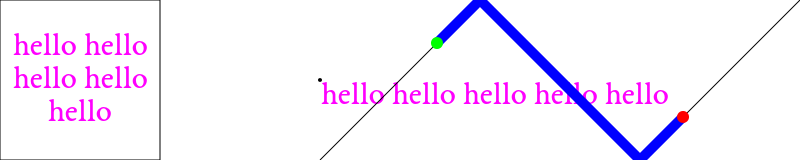
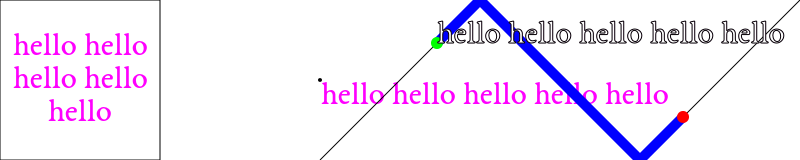
linear labelling work

Changed region(s): [[0.5312, 0.125, 1.0, 0.2812]]

diff --git a/src/vfr.c b/src/vfr.c
@@ -110,6 +110,7 @@ static double euclid_dist(cairo_path_data_t *pt1, cairo_path_data_t *pt2);
 static param_t* parametrize_path(cairo_path_t *path, double *plen);
 static cairo_path_t* get_linear_label_path(cairo_t *cr, paramd_path_t *parpath,
         double txtwidth, double placeat);
+static void transform_label_points(cairo_path_t *lyopath, paramd_path_t *lblpath);
 
 static double vfr_color_compextr(uint64_t color, char c);
 // static vfr_list_t* vfr_list_new(void *dat);
@@ -744,11 +745,11 @@ static int vfr_draw_label(cairo_t *cr, OGRFeatureH ftr, OGRGeometryH geom,
     int i, pcount, fieldidx;
     OGRGeometryH centroid;
     OGREnvelope envelope;
-    cairo_path_t *ftrpath, *lblpath;
+    cairo_path_t *ftrpath, *lblpath, *lyopath;
     PangoLayoutLine *line;
     double x, y, z, pxx, pxy, wrap_width;
     int lyow, lyoh;
-    paramd_path_t paramd_ftrpath;
+    paramd_path_t paramd_ftrpath, paramd_lblpath;
     param_t* params;
     double pathlen, lblwidth;
 
@@ -818,9 +819,32 @@ static int vfr_draw_label(cairo_t *cr, OGRFeatureH ftr, OGRGeometryH geom,
             pango_layout_get_size(plyo, &lyow, &lyoh);
             lblwidth = (double)lyow/PANGO_SCALE;
             lblpath = get_linear_label_path(cr, &paramd_ftrpath, lblwidth, 0.5);
+            cairo_path_destroy(ftrpath);
+            ftrpath = NULL;
+            paramd_ftrpath.path = NULL;
+            free(params);
+            paramd_ftrpath.params = NULL;
             if(lblpath) {
                 params = parametrize_path(lblpath, &pathlen);
+                paramd_lblpath.params = params;
+                paramd_lblpath.path = lblpath;
+                paramd_lblpath.length = pathlen;
                 fprintf(stderr, "got lblpath, len = %f (lblwidth = %f)\n", pathlen, lblwidth);
+                // get layout path
+                line = pango_layout_get_line_readonly(plyo, 0);
+                pxx = (&lblpath->data[0])[1].point.x;
+                pxy = (&lblpath->data[0])[1].point.y;
+                fprintf(stderr, "start at: %f, %f\n", pxx, pxy);
+                cairo_move_to(cr, pxx, pxy);
+                pango_cairo_layout_line_path(cr, line);
+                lyopath = cairo_copy_path(cr);
+                cairo_new_path(cr);
+                // put layout points on path
+                transform_label_points(lyopath, &paramd_lblpath);
+                cairo_append_path(cr, lyopath);
+                cairo_path_destroy(lyopath);
+                lyopath = NULL;
+                cairo_fill_preserve(cr);
             } else {
                 centroid = OGR_G_CreateGeometry(wkbPoint);
                 if(OGR_G_Centroid(geom, centroid) == OGRERR_FAILURE) {
@@ -1024,6 +1048,7 @@ static cairo_path_t* get_linear_label_path(cairo_t *cr, paramd_path_t *parpath, 
     return path;
 }
 
-
-
+static void transform_label_points(cairo_path_t *lyopath, paramd_path_t *lblpath) {
+    return;
+}
 
